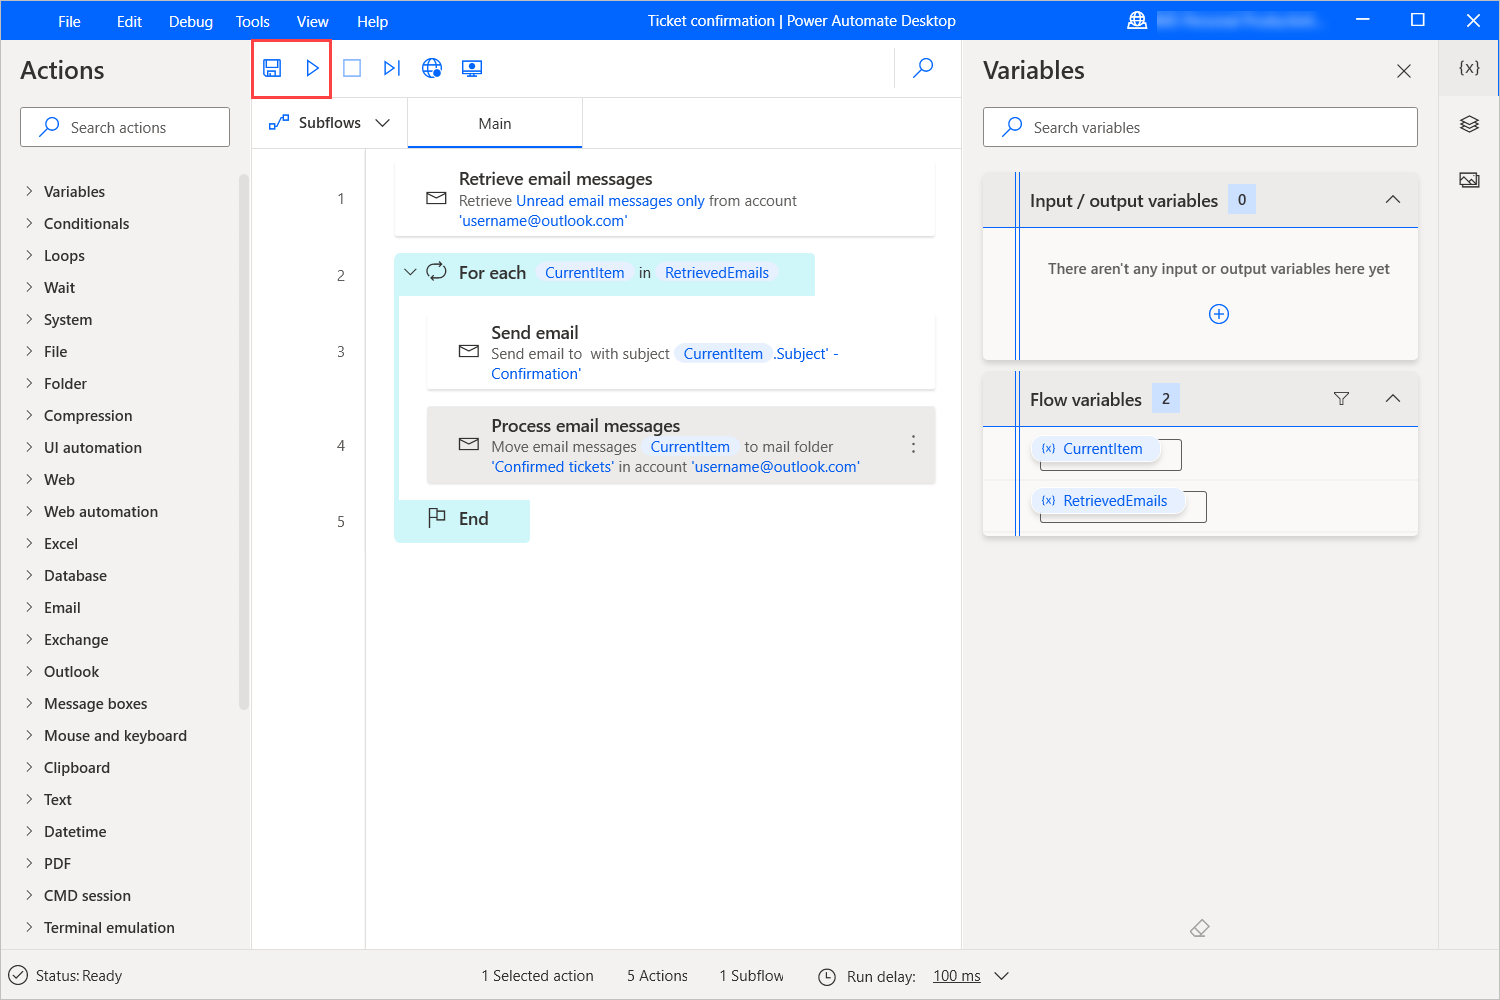
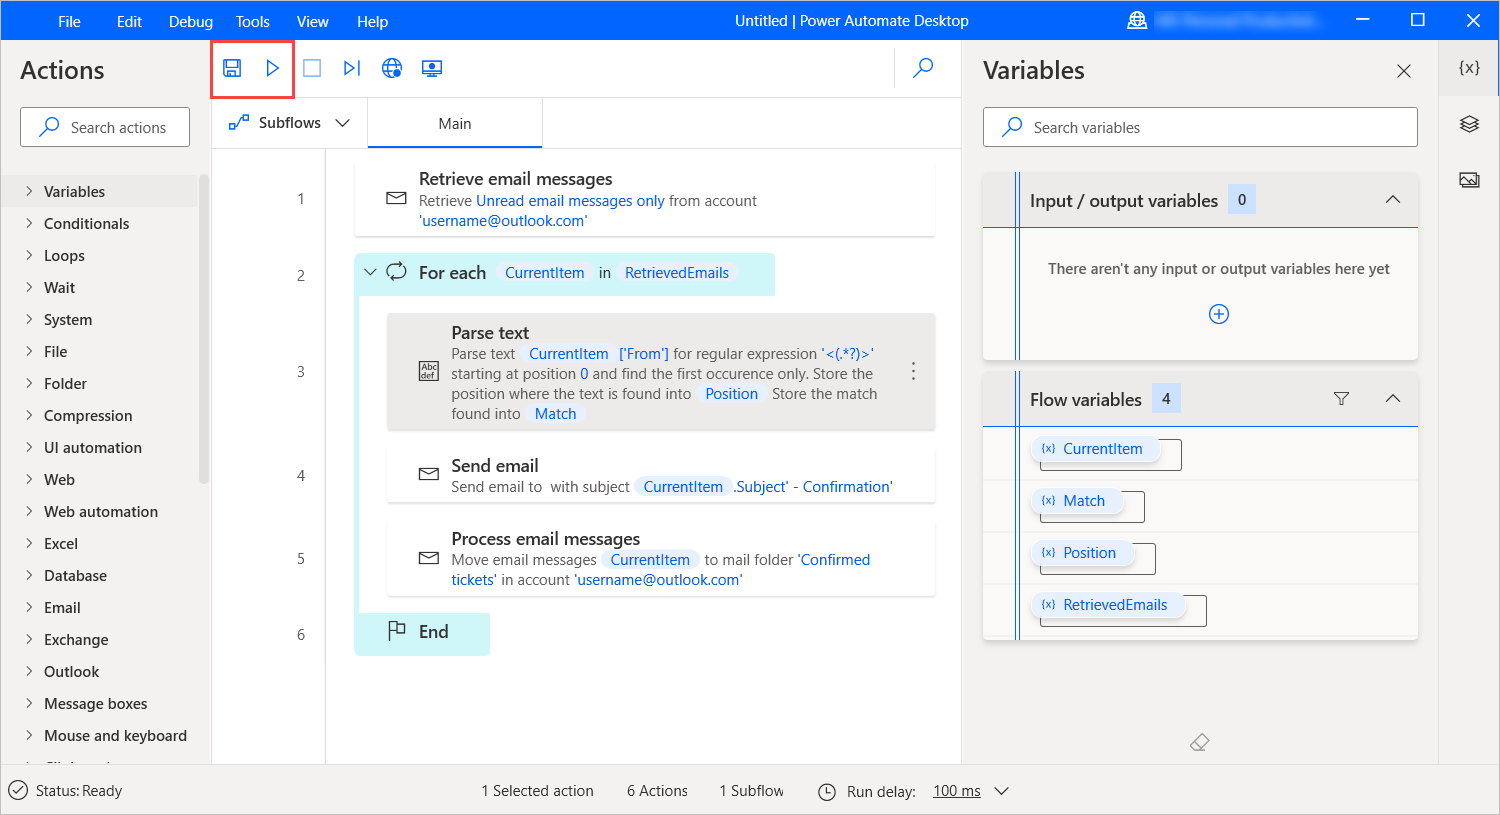
Rewrites in the pad email module part3

diff --git a/learn-bizapps-pr/flow/pad-email/includes/5-exercise-confirm-support-tickets.md b/learn-bizapps-pr/flow/pad-email/includes/5-exercise-confirm-support-tickets.md
@@ -6,7 +6,7 @@ To execute the flow of the exercise successfully, use the credentials of a valid
 
     ![Properties of the Build a flow dialog with the Flow name highlighted.](..\media\exercise-new-flow.png)
 
-1. Deploy a **Retrieve email messages** action and configure it to retrieve all the unread emails that contain the word **Ticket** in their subject line. Populate the **Mail folder** with the main inbox folder of your account.
+1. Deploy a **Retrieve email messages** action and configure it to retrieve all the unread emails that contain the word **Ticket** in their subject line. Populate the **Mail folder** field with the main inbox folder of your account.
 
     ![Properties of the Retrieve email messages action dialog.](..\media\exercise-retrieve-emails-action.png)
 
@@ -14,11 +14,15 @@ To execute the flow of the exercise successfully, use the credentials of a valid
 
     ![Properties of the IMAP server section of the Retrieve email messages action dialog.](..\media\exercise-retrieve-emails-action-imap.png)
 
-1. Add a **For each** loop to the workspace and set it to iterate through the list with the retrieved emails.
+1. Add a **For each** loop to the workspace and set it to iterate through the list that contains the retrieved emails.
 
     ![Properties of the For each action dialog.](..\media\exercise-for-each-action.png)
 
-1. Inside the loop, add a **Send email** action to send an email to each ticket owner. Set the email subject to contain the subject of the received email with a confirmation notation. The body can optionally include a confirmation text.
+1. Inside the loop, add a **Parse text** action to get the email address part of the **%CurrentItem['From']%** property. To get this specific text part, use the **<(.*?)>** regular expression.
+
+    ![Properties of the Parse text actions.](..\media\exercise-parse-text-action.png)
+
+1. Below the **Parse text** action, add a **Send email** action to send an email to each ticket owner. Set the email subject to contain the subject of the received email with a confirmation notation. The body can optionally include a confirmation text.
 
     ![Properties of the Send email action dialog.](..\media\exercise-send-email-action.png)
 
